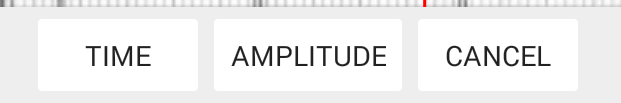
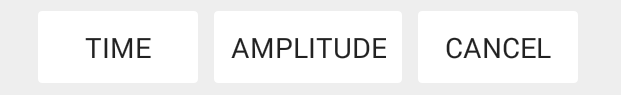
Correct and update Help file

diff --git a/app/src/main/assets/help.html b/app/src/main/assets/help.html
@@ -3,7 +3,7 @@
 "http://www.w3.org/TR/xhtml1/DTD/xhtml1-strict.dtd">
 <html xmlns="http://www.w3.org/1999/xhtml" lang="en" xml:lang="en">
 <head>
-<!-- 2016-02-29 Mon 16:29 -->
+<!-- 2016-02-29 Mon 20:07 -->
 <meta http-equiv="Content-Type" content="text/html;charset=utf-8" />
 <meta name="viewport" content="width=device-width, initial-scale=1" />
 <title></title>
@@ -179,14 +179,14 @@ This new version of <b>EP Calipers</b> can be used to analyze PDF files, as well
 <div class="outline-text-2" id="text-orgheadline4">
 <p>
 When <b>EP Calipers</b> starts, a sample ECG and a time caliper are loaded.
-Move the caliper around by touching the caliper's cross-bar and
+Move the caliper around by touching the caliper's crossbar and
 dragging it with your finger.  Expand and contract the caliper by
 putting your finger on either vertical bar and dragging.  Pinch and
 zoom the underlying ECG image as needed.  Drag the image around with
 your finger.  Double-tap the ECG image to rapidly zoom in.
 The remainder of these instructions will go over how to load ECG
 images, add and delete calipers, calibrate the calipers and make
-advanced measurements like the corrected QT interval.It's intuitive
+advanced measurements like the corrected QT interval.
 </p>
 </div>
 </div>
@@ -197,12 +197,12 @@ advanced measurements like the corrected QT interval.It's intuitive
 <div class="figure">
 <p><img src="./image_button.png" alt="image_button.png" />
 </p>
-<p><span class="figure-number">Figure 1:</span> <b>Image</b> button at right upper corner of screen</p>
+<p><span class="figure-number">Figure 1:</span> <b>Image</b> button at top right of screen</p>
 </div>
 
 <p>
 Use the <b>Image</b> button at the top right of the
-screen to switch to <b>Image mode</b>.  The <b>Image</b> menu will appear at the botton of your screen.
+screen to switch to <b>Image mode</b>.  The <b>Image</b> menu will appear at the bottom of your screen.
 </p>
 
 <div class="figure">
@@ -212,7 +212,7 @@ screen to switch to <b>Image mode</b>.  The <b>Image</b> menu will appear at the
 </div>
 
 <p>
-With this menu you can load and adjust an ECG image.  There are several ways to load and ECG image.
+With this menu you can load and adjust an ECG image.  There are several ways to load an ECG image, as described next.
 </p>
 </div>
 <div id="outline-container-orgheadline6" class="outline-3">
@@ -222,7 +222,7 @@ With this menu you can load and adjust an ECG image.  There are several ways to 
 Touch the <b>Camera</b> button to take a photo of an ECG tracing and load
 it into the app.  Note that images captured this way are not saved in
 the photos collection of the device.  It's best to use this option to
-make a quick measurement when you don't need to save the image.  If you want to save the image, take use your camera outside of the app, and then use the next method to load the photo into the app.
+make a quick measurement when you don't need to save the image.  If you want to save the image use your camera app to take the picture and load the image into <b>EP Calipers</b> from your photo gallery as described next.
 </p>
 </div>
 </div>
@@ -230,7 +230,7 @@ make a quick measurement when you don't need to save the image.  If you want to 
 <h3 id="orgheadline7">Select a photo from your photo gallery</h3>
 <div class="outline-text-3" id="text-orgheadline7">
 <p>
-Touch <b>Select</b> to chose an image that is already saved on your device in your photos collection (for example, an image file attached to an email that you saved or a photo that your previously took).
+Touch <b>Select</b> to chose an image that is already saved on your device in your photos collection, for example an image file attached to an email that you saved or a photo that your previously took.
 </p>
 </div>
 </div>
@@ -275,7 +275,7 @@ Once you select the <i>AliveECG</i> <b>Share</b> button, a dialog opens.  Select
 <div class="figure">
 <p><img src="./alivecor_dialog.png" alt="alivecor_dialog.png" />
 </p>
-<p><span class="figure-number">Figure 6:</span> Select PDF to create a PDF file that can be opened by <b>EP Calipers</b></p>
+<p><span class="figure-number">Figure 6:</span> Select <b>PDF</b> to create a PDF file that can be opened by <b>EP Calipers</b></p>
 </div>
 
 <p>
@@ -393,13 +393,13 @@ Calipers can be horizontal (time measurements) or vertical (amplitude measuremen
 <h2 id="orgheadline15">Selecting a caliper</h2>
 <div class="outline-text-2" id="text-orgheadline15">
 <p>
-When more than one caliper is present, it is necessary that one is selected to be the active caliper when calibrating or making calculated measurements.  By default an unselected caliper is blue and a selected caliper is red (You can change these colors if you want).  Single tapping an unselected caliper will select it.  Tap it again (but not too soon after the first tap, as a double tap deletes the caliper) will unselect it.  As there can be only one selected caliper at a time, selecting a caliper will unselect any other caliper that happens to be selected.  In some cases a caliper will be selected automatically (for example to do calibration) if you have not already selected one.  If you want to select a different caliper, just tap another caliper.
+When more than one caliper is present, it is necessary to indicate which caliper you are using for calibration or to make measurements.  You select or unselect calipers by tapping them.  By default an unselected caliper is blue and a selected caliper is red (you can change these colors if you want).  Single tapping an unselected caliper will select it.  Tap it again (but not too soon after the first tap, as a double tap deletes the caliper) to unselect it.  As there can be only one selected caliper at a time, selecting a caliper will unselect any other caliper that happens to be selected.  In some cases a caliper will be selected automatically (for example to do calibration) if you have not already selected one.  If you want to select a different caliper, just tap another caliper.
 </p>
 
 <div class="figure">
 <p><img src="./selected_caliper.png" alt="selected_caliper.png" />
 </p>
-<p><span class="figure-number">Figure 13:</span> Two uncalibrated calipers, a time and amplitude.  The time caliper is selected.</p>
+<p><span class="figure-number">Figure 13:</span> Two uncalibrated calipers: one time and one amplitude caliper.  The time caliper is selected.</p>
 </div>
 </div>
 </div>
@@ -430,7 +430,7 @@ Select <b>Cal</b> or <b>Calibrate</b>.  Stretch the selected caliper over a know
 <h2 id="orgheadline17">Changing calibration</h2>
 <div class="outline-text-2" id="text-orgheadline17">
 <p>
-You can recalibrate at any time.  You can clear all calibration by selecting <b>Clear</b> in the calibration toolbar.  Note that calibration is maintained if the device is rotated, or the image is zoomed.  Selecting a new image will reset calibration.
+You can recalibrate at any time.  You can clear all calibration by selecting <b>Clear</b> in the calibration toolbar.  Note that calibration is maintained if the device is rotated or the image is zoomed.  Selecting a new image will reset calibration.
 </p>
 </div>
 </div>
@@ -454,7 +454,7 @@ Select a calibrated caliper and stretch it over a number of intervals. Select <b
 <h2 id="orgheadline20">QTc calculation</h2>
 <div class="outline-text-2" id="text-orgheadline20">
 <p>
-Select <b>QTc</b>.  Stretch a time caliper over one or more RR intervals and select <b>Measure</b>.  Enter the number of intervals the caliper is stretched over and select <b>Continue</b>.  Then use the same caliper to measure the QT interval.  Select <b>Measure</b>.  A dialog box will give the calculated QTc using Bazett's formula.
+Select <b>QTc</b>.  Stretch a time caliper over one or more RR intervals and select <b>Measure</b>.  Enter the number of intervals the caliper is stretched over and select <b>Continue</b>.  Then use the same caliper to measure the QT interval.  Select <b>Measure</b>.  A dialog box will give the calculated QTc using Bazett's formula.  Note that device rotation in the middle of this process when cancel the measurement.
 </p>
 
 <div class="figure">
@@ -488,20 +488,8 @@ Preferences such as caliper colors and default calibration intervals can be sele
 </div>
 </div>
 <div id="outline-container-orgheadline22" class="outline-2">
-<h2 id="orgheadline22">Device rotation</h2>
+<h2 id="orgheadline22">Acknowledgments</h2>
 <div class="outline-text-2" id="text-orgheadline22">
-<p>
-Caliper calibration as well as scaling and rotation of the ECG image are maintained with device rotation.  Calipers may need to be repositioned after device rotation.  If the device is rotated in the middle of doing the steps of the QTc calculation it will be necessary to start the calculation over.
-</p>
-</div>
-</div>
-<div id="outline-container-orgheadline23" class="outline-2">
-<h2 id="orgheadline23">Issues and limitations</h2>
-</div>
-
-<div id="outline-container-orgheadline24" class="outline-2">
-<h2 id="orgheadline24">Acknowledgements</h2>
-<div class="outline-text-2" id="text-orgheadline24">
 <ul class="org-ul">
 <li>Thanks to Dr. Michael Katz for the concept.</li>
 <li>The source code for <b>EP Calipers</b> is available on <a href="https://github.com/mannd/epcalipers-android">GitHub</a>.</li>

diff --git a/app/src/main/java/org/epstudios/epcalipers/MainActivity.java b/app/src/main/java/org/epstudios/epcalipers/MainActivity.java
@@ -860,7 +860,7 @@ public class MainActivity extends ActionBarActivity implements View.OnClickListe
         // Add Caliper menu
         horizontalCaliperButton = createButton(getString(R.string.horizontal_caliper_button_title));
         verticalCaliperButton = createButton(getString(R.string.vertical_caliper_button_title));
-        cancelAddCaliperButton = createButton(getString(R.string.done_button_title));
+        cancelAddCaliperButton = createButton(getString(R.string.cancel_button_title));
         // Adjust Image menu
         rotateImageRightButton = createButton(getString(R.string.rotate_image_right_button_title));
         rotateImageLeftButton = createButton(getString(R.string.rotate_image_left_button_title));
